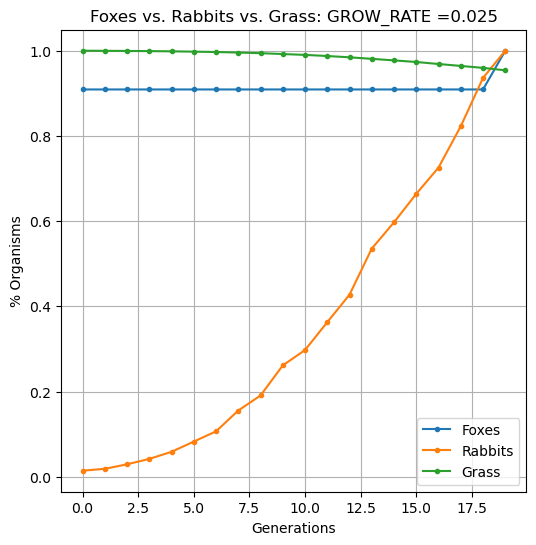
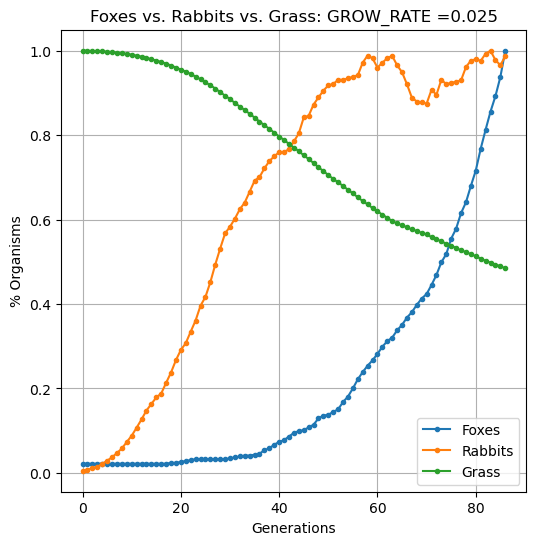
updates

diff --git a/main.py b/main.py
@@ -13,10 +13,9 @@ from classAnimal import Animal
 from classField import Field
 import argparse as ap
 
-fsize = 50
-OFFSPRING = 2  # Max offspring when a rabbit reproduces
-grass_rate = 0.025  # Probability that grass grows back at any location in the next season.
 WRAP = False  # Does the field wrap around on itself when rabbits move?
+
+
 def animate(i, field, im):
     """
     Animate the field of rabbits and foxes
@@ -29,11 +28,12 @@ def animate(i, field, im):
         im (image) an updated image
     """
     # stopping criterion of 1000 iterations
-    while i <= 500:
+    while i <= 1000:
         field.generation()
-        # print("AFTER: ", i, np.sum(field.field), len(field.nfoxes))
         im.set_array(field.field)
         im.set_cmap(my_cmap)
+
+        # update the image for pixel color values
         rabbits = field.get_animals(2)
         foxes = field.get_animals(3)
         total = np.maximum(field.field, np.maximum(rabbits, foxes))
@@ -50,6 +50,7 @@ def animate(i, field, im):
 
 clist = ['white', 'green', 'blue', 'red']
 my_cmap = colors.ListedColormap(clist)
+
 
 def main():
     # create a parser to support command-line arguments
@@ -78,11 +79,7 @@ def main():
     # Create the ecosystem
     field = Field(fsize, grass_rate)
 
-    # # add foxes
-    # for _ in range(20):
-    #     fox = Animal(3, 1, 2, 10, (2, ), fsize)
-    #     field.add_animal(fox)
-    # add rabbits (id, max_offspring, speed, starve, eats, fsize)
+    # add rabbits
     for _ in range(init_rabbit):
         rabbit = field.add_animal(Animal(2, 2, 1, 1, (1,), fsize))
         field.add_animal(rabbit)
@@ -93,45 +90,8 @@ def main():
         fox = field.add_animal(Animal(3, 1, 1, fox_k, (2,), fsize))
         field.add_animal(fox)
 
-    # Create the ecosystem
-    # field = Field(fsize, grass_rate)
-
-    # # add rabbit
-    # for _ in range(5):
-    #     field.add_animal(Animal(2, 3, 1, 2, (1,), fsize))
-    #
-    # # add fox
-    # for _ in range(10):
-    #     field.add_animal(Animal(3, 1, 2, 75, (2,), fsize))
-    #
-    #     #(id, max_offspring, speed, starve, eats, fsize):
-
-    # # add foxes
-    # for _ in range(1):
-    #     fox = Animal(3, 1, 2, 15, (2, ), fsize)
-    # add rabbits
-    # for _ in range(5):
-    #     rabbit = Animal(2, 2, 1, 1, (1,), fsize)
-    #     field.add_animal(rabbit)
-    #
-    # # add foxes
-    # for _ in range(20):
-    #     fox = Animal(3, 1, 2, 10, (2, ), fsize)
-    #     field.add_animal(fox)
-    # add rabbits
-    # for _ in range(100):
-    #     rabbit = Animal(2, 2, 1, 1, (1,), fsize)
-    #     field.add_animal(rabbit)
-    #
-    # # add foxes
-    # for _ in range(20):
-    #     fox = Animal(3, 1, 2, 10, (2, ), fsize)
-    #     field.add_animal(fox)
-
     # create the initial array of grass (value = 1)
     array = np.ones(shape=(fsize, fsize), dtype=int)
-
-    #(id, max_offspring, speed, starve, eats, fsize):
 
     # plot the figure
     fig = plt.figure(figsize=(5, 5))
@@ -140,6 +100,7 @@ def main():
     foxes = field.get_animals(3)
     total = np.maximum(array, np.maximum(rabbits, foxes))
     im = plt.imshow(total, cmap=my_cmap, interpolation='none', vmin=0, vmax=3)
+
     # animate the figure
     anim = animation.FuncAnimation(fig, animate, fargs=(field, im,), frames=1000000, interval=1, repeat=True)
 
